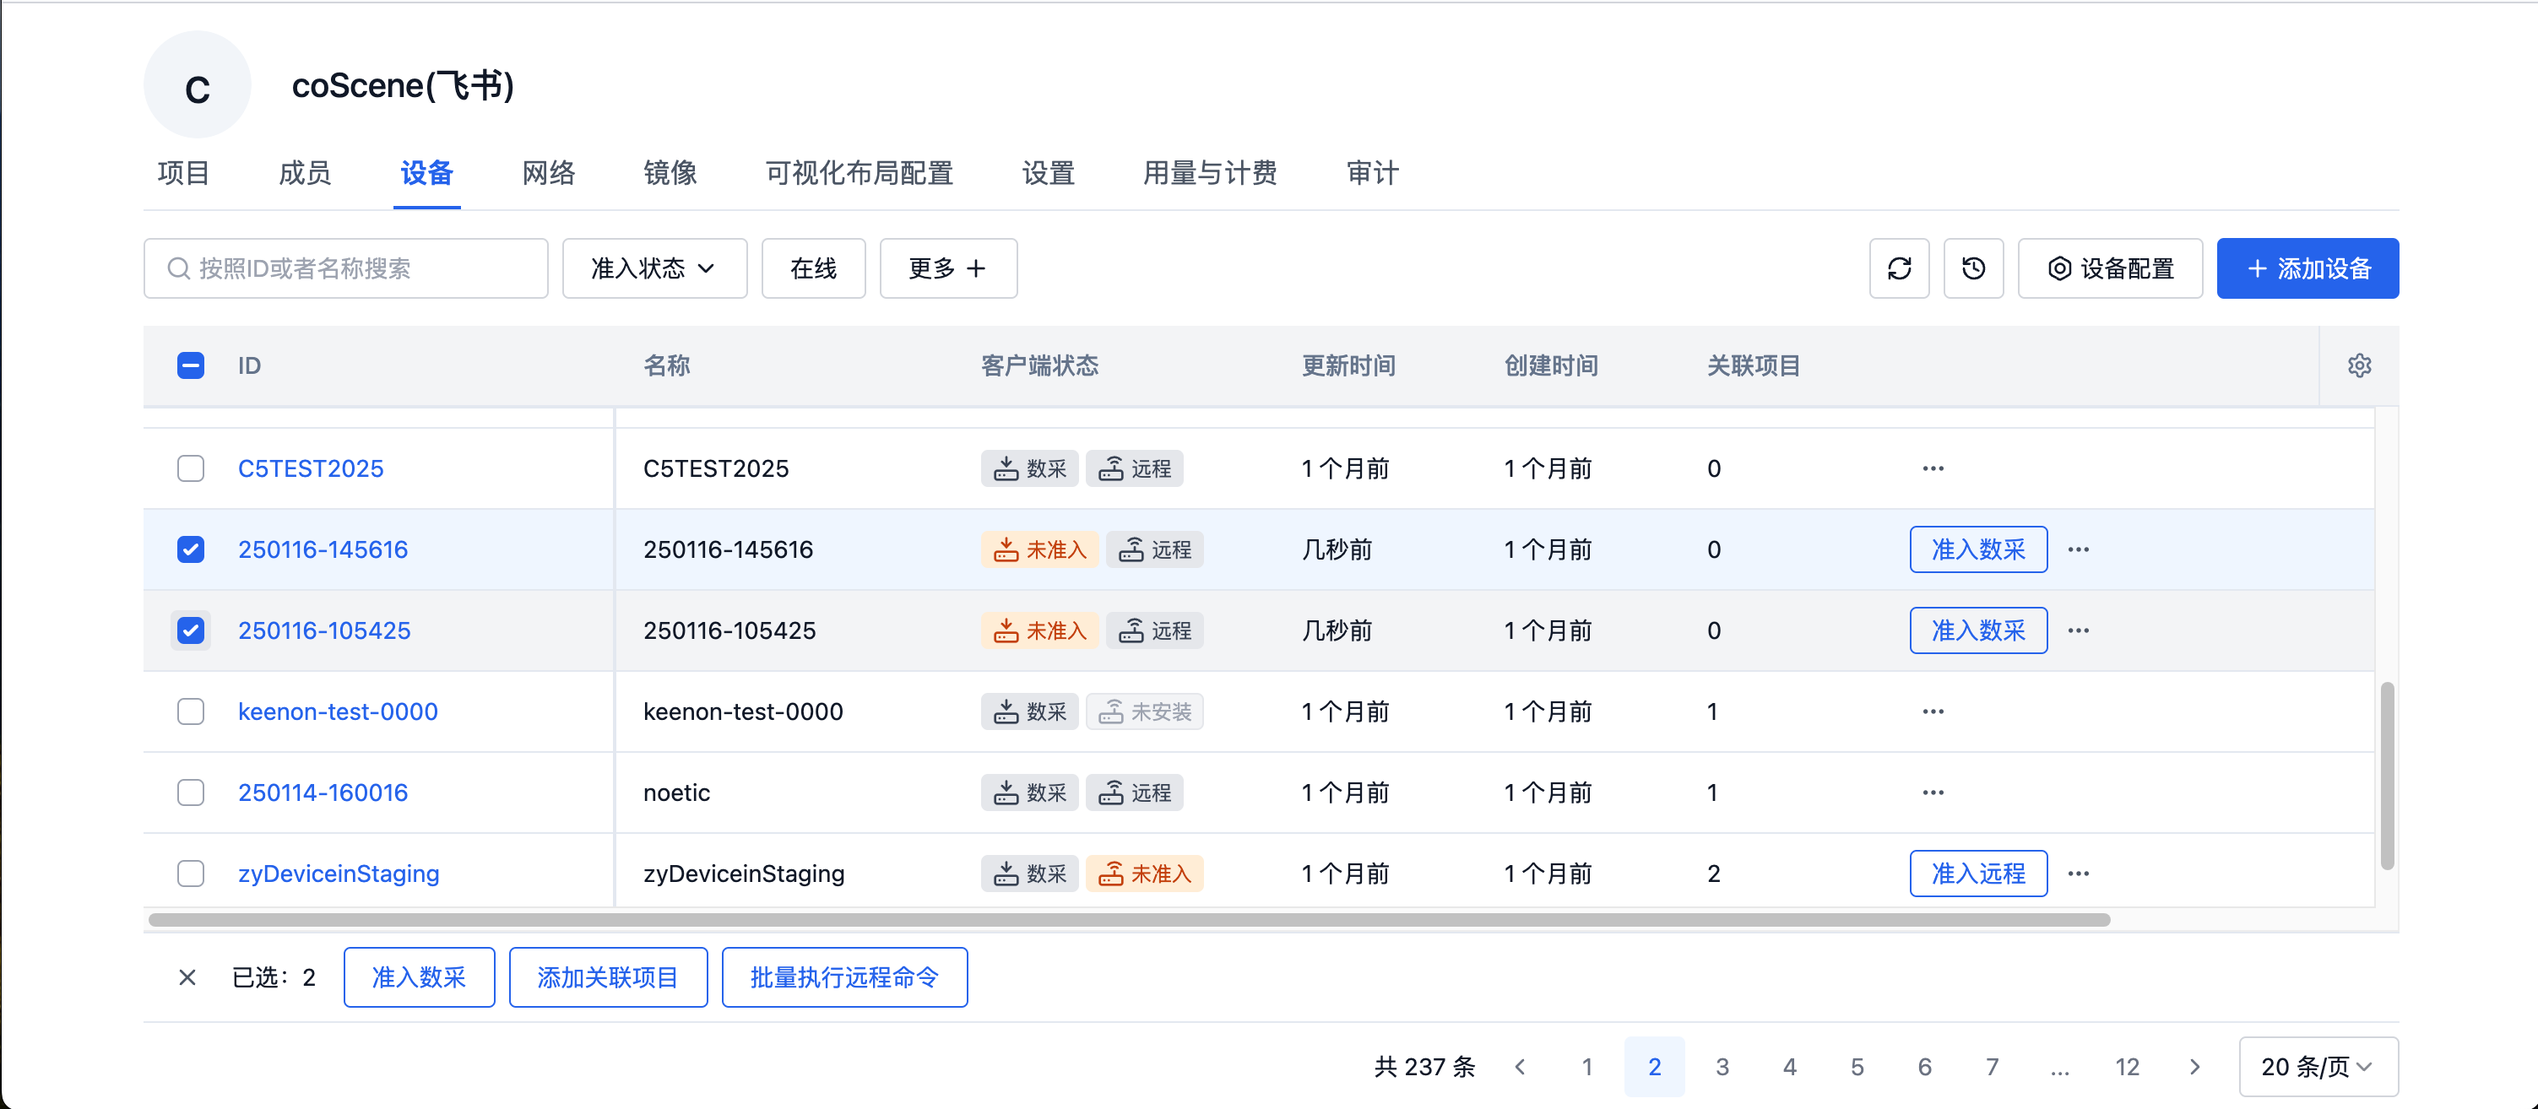
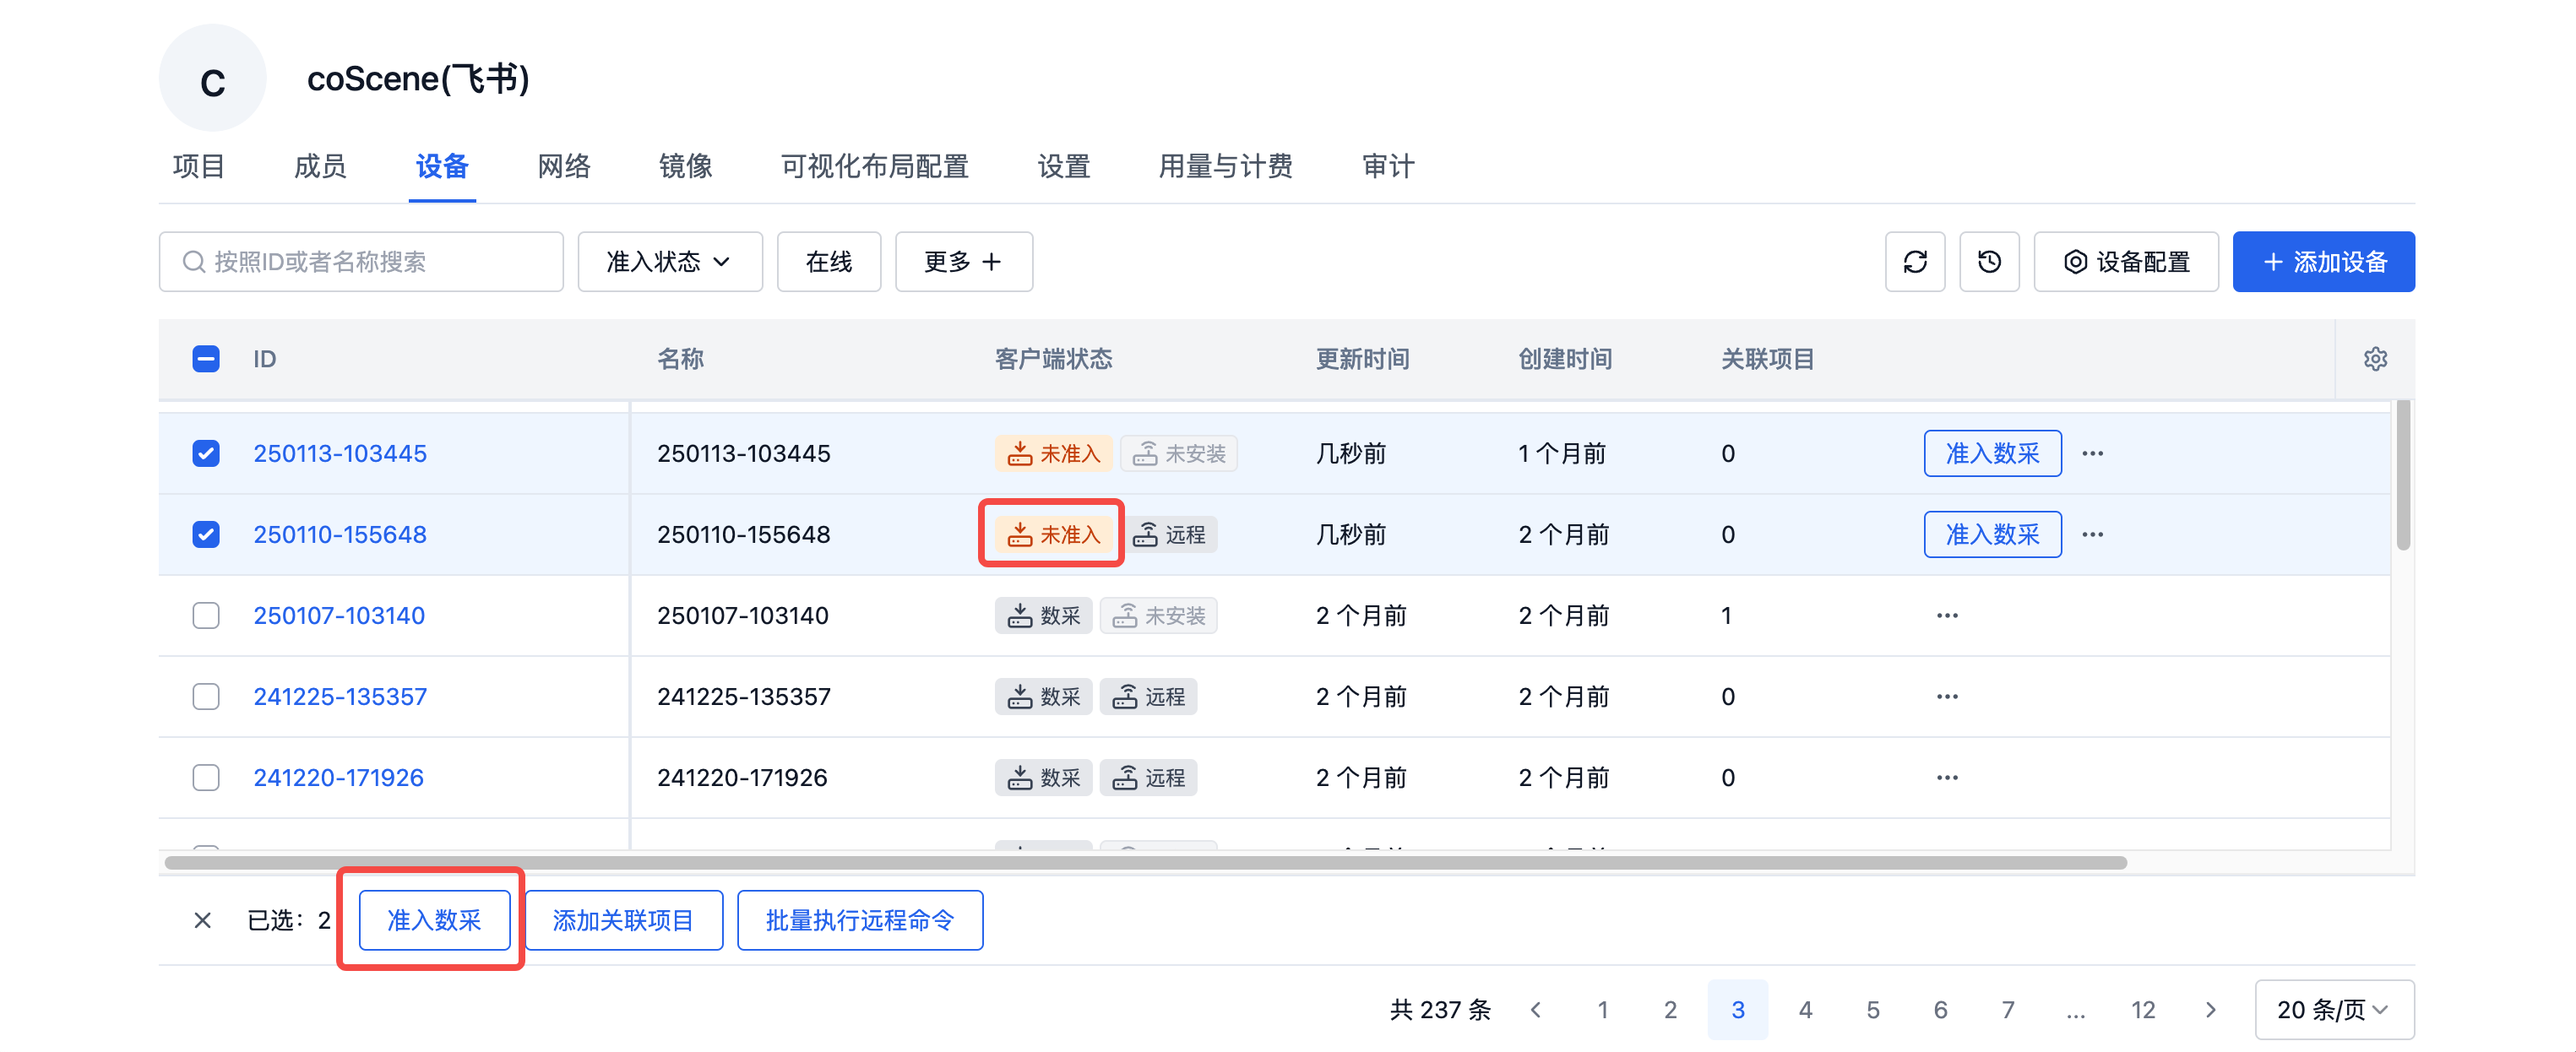
remote command

diff --git a/docs/device/7-batch-device-operations.md b/docs/device/7-batch-device-operations.md
@@ -3,12 +3,25 @@ sidebar_position: 7
 ---
 
 # 批量操作设备
+可以同时选择多台设备，进行批量操作。
 
 ## 准入数采 {#data-collection-access}
-选择数据采集未准入的设备
-![表格显示设置](./img/7-authorize-data-collection-1.png)
-![表格显示设置](./img/7-authorize-data-collection-2.png)
+管理员可以选择多台未准入数据采集的设备，点击【准入数采】按钮，批量准入设备。
+![准入数采](./img/7-authorize-data-collection-1.png)
+<!-- ![准入成功](./img/7-authorize-data-collection-2.png) -->
 
 ## 添加关联项目 {#add-associated-projects}
+选择需要添加的设备，点击【添加关联项目】按钮，选择需要添加的项目，点击【添加】按钮，即可将设备添加到项目中。
+![准入数采](./img/7-add-associated-projects-1.png)
+![准入数采](./img/7-add-associated-projects-2.png)
 
 ## 批量执行远程命令 {#batch-remote-command}
+选择远程在线的设备，点击【批量执行远程命令】按钮，输入需要执行的命令，点击【确定】按钮，即可批量执行命令。
+![准入数采](./img/7-batch-remote-command-1.png)
+![准入数采](./img/7-batch-remote-command-2.png)
+等待执行完成后，点击【查看日志】按钮，即可查看执行结果。
+![准入数采](./img/7-batch-remote-command-3.png)
+![准入数采](./img/7-batch-remote-command-4.png)
+
+![准入数采](./img/7-batch-remote-command-5.png)
+![准入数采](./img/7-batch-remote-command-6.png)

diff --git a/i18n/en/docusaurus-plugin-content-docs/current/device/7-batch-device-operations.md b/i18n/en/docusaurus-plugin-content-docs/current/device/7-batch-device-operations.md
@@ -3,8 +3,11 @@ sidebar_position: 7
 ---
 
 # Batch Device Operations
+可以同时选择多台设备，进行批量操作。
 
 ## Data Collection Access {#data-collection-access}
+管理员可以选择多台未准入数据采集的设备，点击【准入数采】按钮，批量准入设备。
+![准入数采](./img/7-authorize-data-collection-1.png)
 
 ## Add Associated Projects {#add-associated-projects}
 
